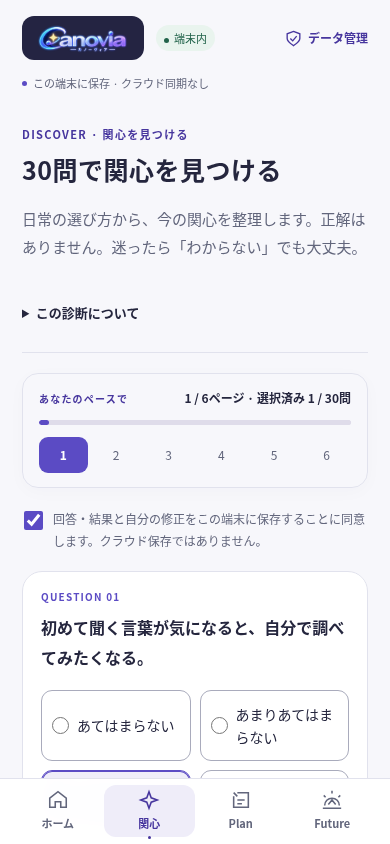
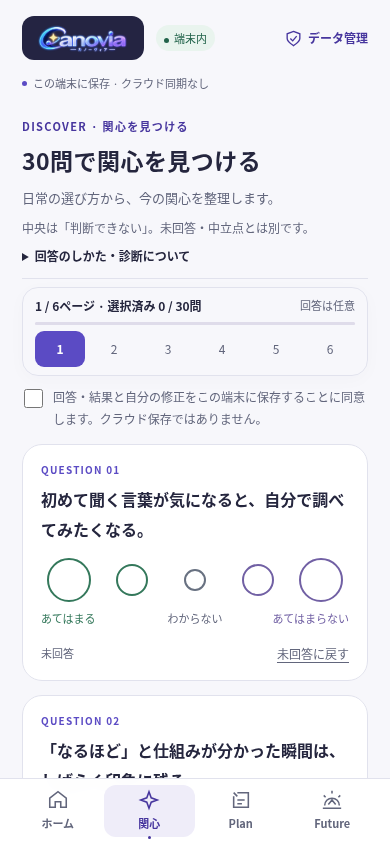
docs: record circular scale states, compatibility and scoped local evidence [skip ci]

Changed region(s): [[0.0615, 0.3389, 0.9231, 0.9242], [0.0615, 0.1232, 0.9538, 0.3081], [0.6154, 0.6777, 0.6462, 0.7085]]

diff --git a/docs/development/PRELAUNCH_PREPARATION_SHARED_DB_RELEASE_STRATEGY_2026_10_23.md b/docs/development/PRELAUNCH_PREPARATION_SHARED_DB_RELEASE_STRATEGY_2026_10_23.md
@@ -1416,3 +1416,41 @@ Linux / system Chromium `154.0.8037.57` / Playwright `1.56.1`。fixtureは合成
 [画面レビュー（Before/After・合成スクリーンショット）](../reviews/local-b-ui/README.md) は表示証拠の補助資料、方針・安全性の正本は本§19とIssue #488。本人にはまず配色/余白/入口、6ページ診断の密度、Planの目標→メモの書きやすさの3点を短時間で判断してもらう。今回はiPhone操作を求めない。UI採否/修正→11/1以降の必要CI→別のiOS固定HTML更新PR→新UIのWKWebView/Release/保存互換の差分受入が必要。#20/#22を変更・統合せず、12/1目標を公開準備完了の根拠にしない。
 
 本UI候補は [Web Draft PR #918](https://github.com/1kz-ma1/Canovia-web/pull/918)。本人のUI採否待ちであり、mainへ統合しない。実装・画面証拠・ローカル検証・未検証事項を同PRへ集約する。
+
+### 2026-10-28 診断の円形スケール追補（PR #918継続・Draft）
+
+本人の追加依頼により、直前候補 `3edde97f424d6dd71bcac5a60dd82fe98385c192` の**診断の文字付き回答カードだけを円形スケールに置き換える**。Home/結果/Plan/Backup等の前項の方針は維持。既存worktreeを保持するため、独立worktree・local branch `feature/local-b-circular-scale` で作業し、同じPR #918のremote `feature/local-b-mobile-experience` へfast-forward追記する。iOS/OP動画作業領域は対象外。main統合・公開・配備の許可ではない。
+
+| 左からの位置 | 保存値（変更なし） | radioの完全なラベル | 色token | 円の直径 |
+| --- | --- | --- | --- | --- |
+| 1 | 数値 `3` | あてはまる | `--scale-positive: #34785b` | 44px |
+| 2 | 数値 `2` | ややあてはまる | 同上 | 32px |
+| 3 | 文字列 `unknown` | わからない | `--scale-neutral: #687181` | 22px |
+| 4 | 数値 `1` | あまりあてはまらない | `--scale-negative: #7160a4` | 32px |
+| 5 | 数値 `0` | あてはまらない | 同上 | 44px |
+
+円の中心を等間隔に配置し、通常は輪郭だけ、選択後は対応色の塗り＋白いcheckで示す。視覚上22pxの中央を含め、**native radioの実タップ領域は各44px以上×48px**。radioを `display:none` / `visibility:hidden` / `aria-hidden` にせず、透明な実入力をlabelの全面に置く。完全なラベルは視覚的に隠したtextで保持し、fieldset/legend・checked・nativeの矢印/Space操作を維持。focus-visibleは円の外側の濃色outlineで表示。塗り150ms・軽い選択180msは既存Reduce Motionのanimation/transition無効化を尊重する。外部asset/font/依存追加なし。
+
+中央は独立した「判断できない」であり、中立点/0点ではない。画面上の常設説明とunknown radioの `aria-describedby`、詳細の答え方で説明する。未回答はkey不在、unknownはstringの存在として区別し、既存採点・schema・保存実装を変更しない。下段の方向ラベルは左「あてはまる」/中央「わからない」/右「あてはまらない」。6ページ×5問、同意後の途中/移動時保存、選択解除、修正、再開を維持する。
+
+診断見出し/説明・進捗bar/余白・同意の上下間隔を短くし、先頭の回答を早く表示する。390×844pxの新規contextで先頭回答列は概ねy=556〜604px、下部navの上に全5択が入ることを確認。5問すべては同ページを縦スクロールして回答する設計で、5問全体が844px内に収まるとは主張しない。長い設問や320pxでも横方向に逃がさない。
+
+#### 円形UIの検証証拠
+
+製品/テストSource **`c5648a69e7987e369b89c5784b1728f6ec795ec6`**。Linux Chromium 154 / Playwright 1.56.1。前候補比の製品変更は `preparation-local/src/app.mjs` と `style.css` のみ。`tests/browser/preparation_mobile_ui.mjs` を拡張し、既存の判定を削除/緩和しない。採点/data/model/Repository/backup/codec/Headers/配布・公開wrapperはbyte不変。24asset中22assetは前候補とhash一致、2assetとSource入りmanifestを再発行する。
+
+| 判定 | 自動検証・実測範囲 |
+| --- | --- |
+| PASS | native radioの表示順 `3,2,unknown,1,0` と完全なaccessible name、1質問1選択、塗り/checkと非選択の輪郭。全5値を実操作で個別保存→reloadし、数値/文字列を厳密比較 |
+| PASS | unknown保存後の解除でkey不在、0とは別の扱い。前後/ページ移動、途中保存、Space/ArrowRightによる3→2→unknown、Reduce Motion時animation none |
+| PASS | 混在 `{Q01:3,Q02:2,Q03:'unknown',Q04:1,Q05:0,Q06:3}` をUI保存→JSONの実download→隔離contextのImport preview（非保存）→確認後Import→radio復元まで厳密比較 |
+| PASS | 幅320/375/390/430/1280で5問それぞれ1列5択・直径44/32/22/32/44・各入力44px以上・横overflowなし。アニメーション完了後の形状とnative inputのタップ寸法を別検査。390の先頭列がnavに隠れない |
+| PASS | 既存B/C browser回帰：30問/採点133参照/結果・同点/Plan編集/JSON往復/破損・quota・abort・conflict保持/Origin・CSP・SW・404等。Bのbrowser process再起動保持、Cの非保存も維持 |
+| PASS | core5＋backup5、配布security12＋Render offline計画11、B二重生成ZIP一致とB/C ZIP検証。PHP参照は同日生成済み133ケースを再利用し、今回不変の採点/bankと照合 |
+| PASS（限定） | 旧カード3edde実UIの専用persistent profileへ保存した合成の5値を、browser終了後に同じloopback Origin/profileの円形UIで再開。**全state（revision/時刻/ID含む）と各radio値が完全一致**、migration/clearなし。Web同一Originの証拠に限定 |
+| PASS（限定） | 主要5画面のaxe-core 4.11.0対象WCAG2 A/AA・2.1 AA tagsで検出違反0。画面撮影contextの診断でも0。既に開いた画面のoffline Plan保存/Exportの既存回帰もPASS |
+| NOT_RUN / NOT_TESTED | GitHub Actions（全commit `[skip ci]`、無料枠を消費するdispatch/re-runなし）。新UIのSafari/WebKit/WKWebView/iPhone/VoiceOver/Dynamic Type/native Files/iOS upgradeは未検証。既存受入やChromium結果を転用しない |
+
[1 lines of base64/hex data omitted]
+
+[円形UIの全6状態・320/390・5問全体・直前カードとの比較](../reviews/local-b-ui/README.md#円形スケールへの更新) を本人レビューに用いる。最初の4画面比較の診断Afterも更新し、直前カードを `circle-before-390.png` として保持。本人には円の大小/色、肯定左・否定右の方向、中央の独立した意味が伝わるかを画像で判断してもらう。実機操作は今回依頼しない。**Draft維持・main未統合・`PRODUCTION_NO_GO_HOLD` / `release_approved=false`**。read-access単独FAIL、Release/公開の既存未解決ゲートも維持する。

diff --git a/docs/reviews/local-b-ui/README.md b/docs/reviews/local-b-ui/README.md
@@ -9,7 +9,7 @@
 まず確認してほしいのは3点です。操作や個人データの提供は不要です。
 
 1. 明るい背景・藍のアクセント・余白と、ホームの「次にすること」がCanoviaに合うか。
-2. 6ページ×5問、選択タイル、移動時保存という診断の密度がよいか。
+2. 6ページ×5問、円形スケール、移動時保存という診断の密度がよいか。
 3. Planの「目標→現在地・最初の一歩→分野/目標日」が書きやすそうか。
 
 | 画面 | Before | After |
@@ -22,13 +22,37 @@
 | 起動失敗 | — | [保存領域を開けない場合のSTOP](after-error.png) |
 | 幅の違い | — | [320px](after-home-320.png)・[1280px](after-home-desktop.png) |
 
-撮影はloopback配信の実アプリをLinux Chromium 154 / Playwrightで操作したものです。合成の診断・Planのみ。390×844px（小幅320、desktop1280×900を除く）。画像モックではありません。Afterの製品Sourceは `f8d514b88d5b038133e712ba458126541948099f`、Beforeは `ed6a18a63dac1efbba81999fa0a9611f1c3be104`。比較シートはブラウザで原寸画像を縮小配置して撮影しています。画像ファイル自体は個別の原スクリーンショットです。
+撮影はloopback配信の実アプリをLinux Chromium 154 / Playwrightで操作したものです。合成の診断・Planのみ。390×844px（小幅320、desktop1280×900を除く）。画像モックではありません。Afterの診断は円形更新Source `c5648a69e7987e369b89c5784b1728f6ec795ec6`、他画面は変更していない初回候補 `f8d514b88d5b038133e712ba458126541948099f` の画像を保持し、Beforeは `ed6a18a63dac1efbba81999fa0a9611f1c3be104`。比較シートはブラウザで原寸画像を縮小配置して撮影しています。画像ファイル自体は個別の原スクリーンショットです。
 
 Beforeの診断は初回ページで1回答を選択中、結果は30回答済み、Planは合成の保存済み1件です。AfterのHome/診断/空Planは新規の検証用context、保存済みHome/結果/Planは旧UIと同じ専用persistent profile・Originの記録です。起動失敗は新規contextでIndexedDB openだけを合成例外にした負例です。実際のiPhone画面・Safari受入証拠として扱わないでください。
 
 ローカルテストは採点/JSONのpure10件、PHP133ケース一致、B/C browser回帰、mobile追加回帰、配布12件・Render計画11件がPASS。主要6画面のaxe検出違反0は限定的な自動検査です。再現コマンド・hash・未検証範囲は§19参照。GitHub Actionsは無料枠の都合で未実行。Safari/WKWebView、VoiceOver、native Files、iOS upgradeは未検証です。
 
 新UI採否決定まではiOS pin/HTML/hash、iOS #20/#22、mainを変更しません。採用後のCIとiOS取込は別工程です。`PRODUCTION_NO_GO_HOLD` / `release_approved=false`。
+
+
+## 円形スケールへの更新
+
+PR #918を継続し、診断のカード回答だけを変更しました。直前のカードSourceは `3edde97f424d6dd71bcac5a60dd82fe98385c192`、新しい製品/テストSourceは `c5648a69e7987e369b89c5784b1728f6ec795ec6`。iOS pin/Release/保存・採点は変更しません。
+
+![円形回答の全状態](circle-states.png)
+
+左から **3（緑・大）／2（緑・中）／unknown（灰・小）／1（紫・中）／0（紫・大）**。最小の円もnative radioは44px以上×48pxのタップ領域を持ちます。選択は塗り＋白いcheck、focusは濃色outline。完全な回答ラベル・fieldset/legend・矢印/Space操作は保持しています。中央は「判断できない」という独立回答で、中立点や未回答ではありません。
+
+| 比較・状態 | 原寸画像 |
+| --- | --- |
+| 直前のカード→円形（390×844） | [Before/After](circle-comparison.png) |
+| 初期の未選択 | [質問1](circle-none.png)・[390pxの画面](circle-after-390.png) |
+| 強い肯定 `3` / 弱い肯定 `2` | [3](circle-3.png)・[2](circle-2.png) |
+| 独立した `unknown` | [わからない](circle-unknown.png) |
+| 弱い否定 `1` / 強い否定 `0` | [1](circle-1.png)・[0](circle-0.png) |
+| 小型画面 / 同じページの5問 | [320px](circle-320.png)・[390pxで5問全体](circle-five-390.png) |
+
+各状態は実アプリの質問1を要素撮影、320/390はviewport撮影、5問全体は390px幅のfull-page撮影です。合成データのみ。5問全体は縦スクロールで回答し、844px内に全問を押し込む設計ではありません。比較シートも原画像をブラウザで並べて撮影しています。
+
+追加のローカル回帰で全5値の保存/reload、unknownと解除、順序・直径・44px領域、矢印/Space/Reduce Motion、混在5値を含むJSON実download→隔離Import→選択復元がPASS。B/Cの30問・採点133参照・JSON・保存失敗・通信境界回帰もPASS。旧カードで保存した専用profileの全stateが円形UIのbrowser再起動後にも完全一致しました。詳細・ZIP証拠は既存§19の円形追補へ集約しています。
+
+本人には **円の大小/色、肯定が左・否定が右の方向、中央が中立ではない意味** の3点を画像で判断してもらいます。GitHub CI・Safari/WKWebView/VoiceOver/実機は未実施のままです。
 
 ## ローカル再現
 
